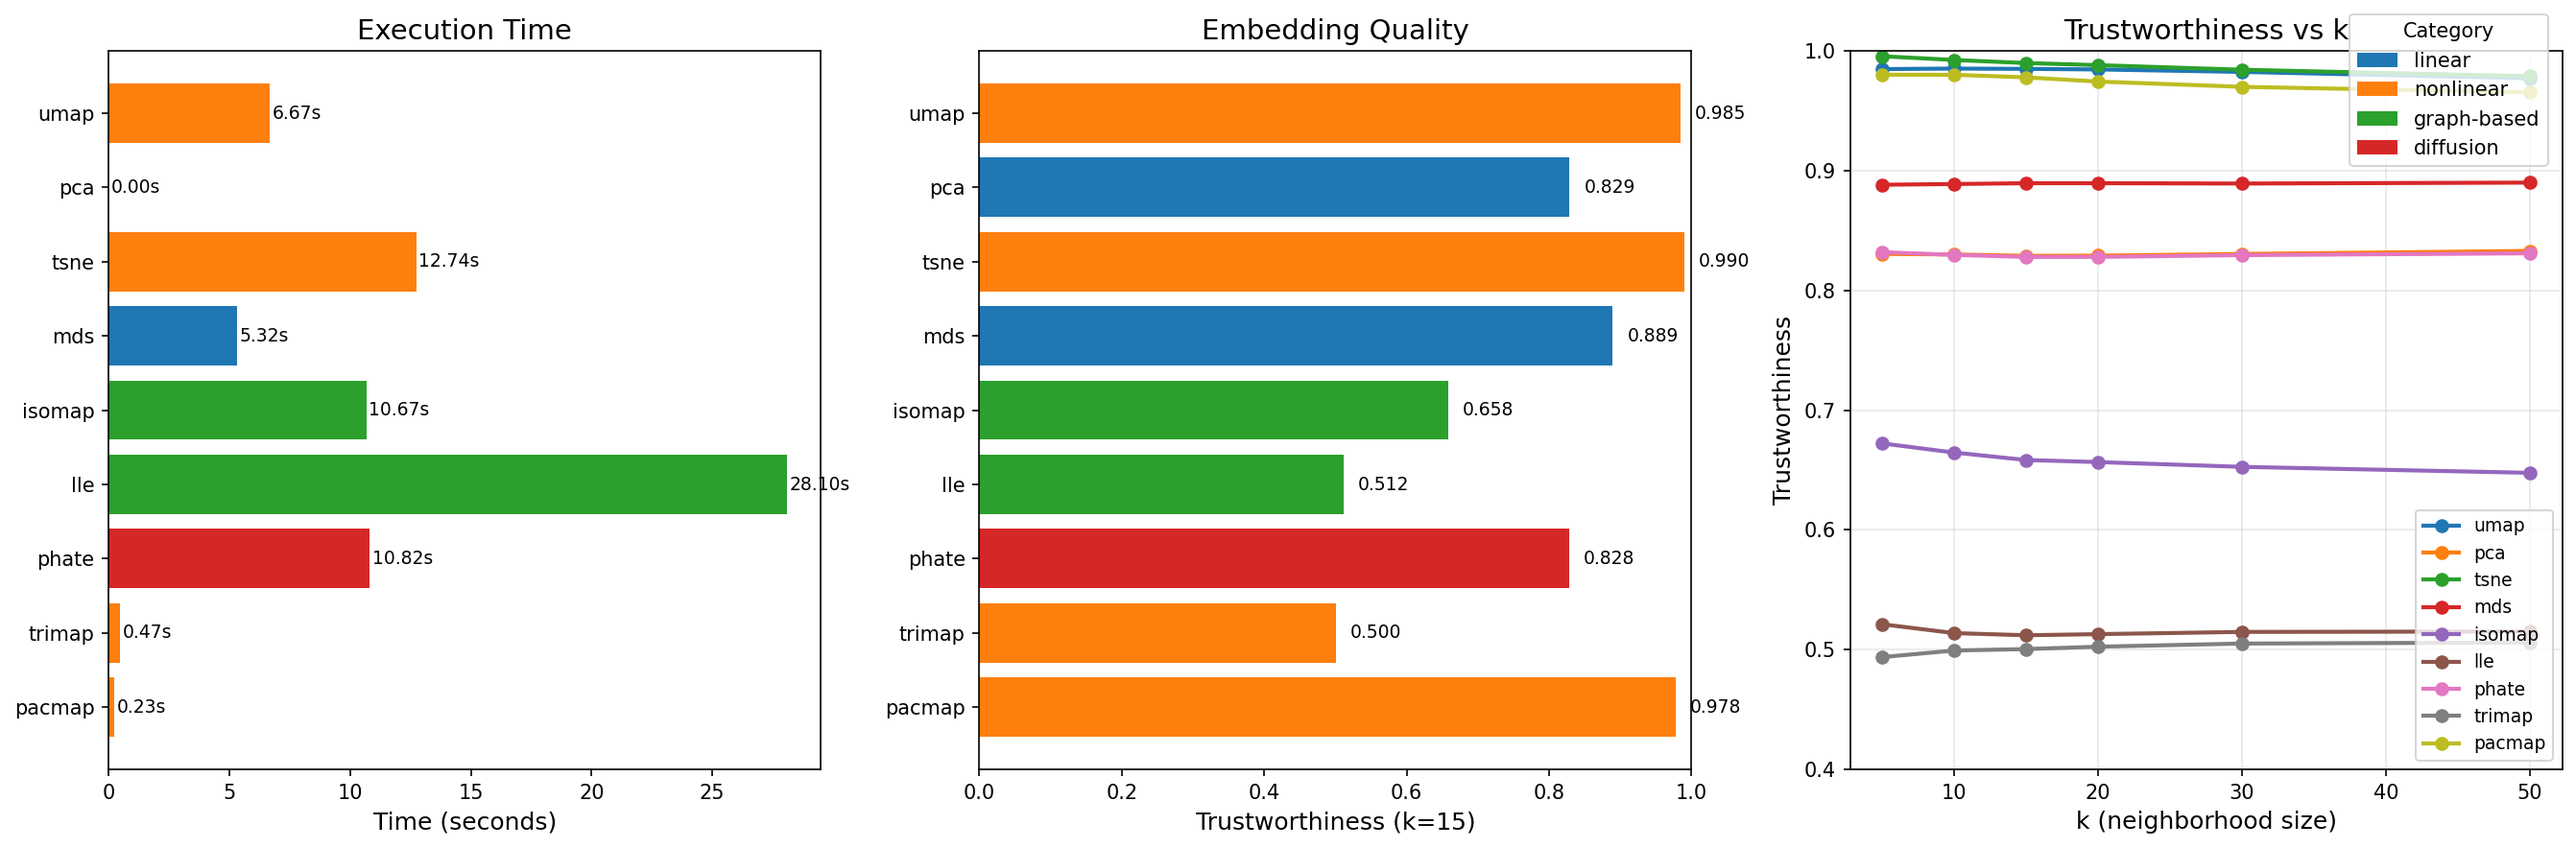
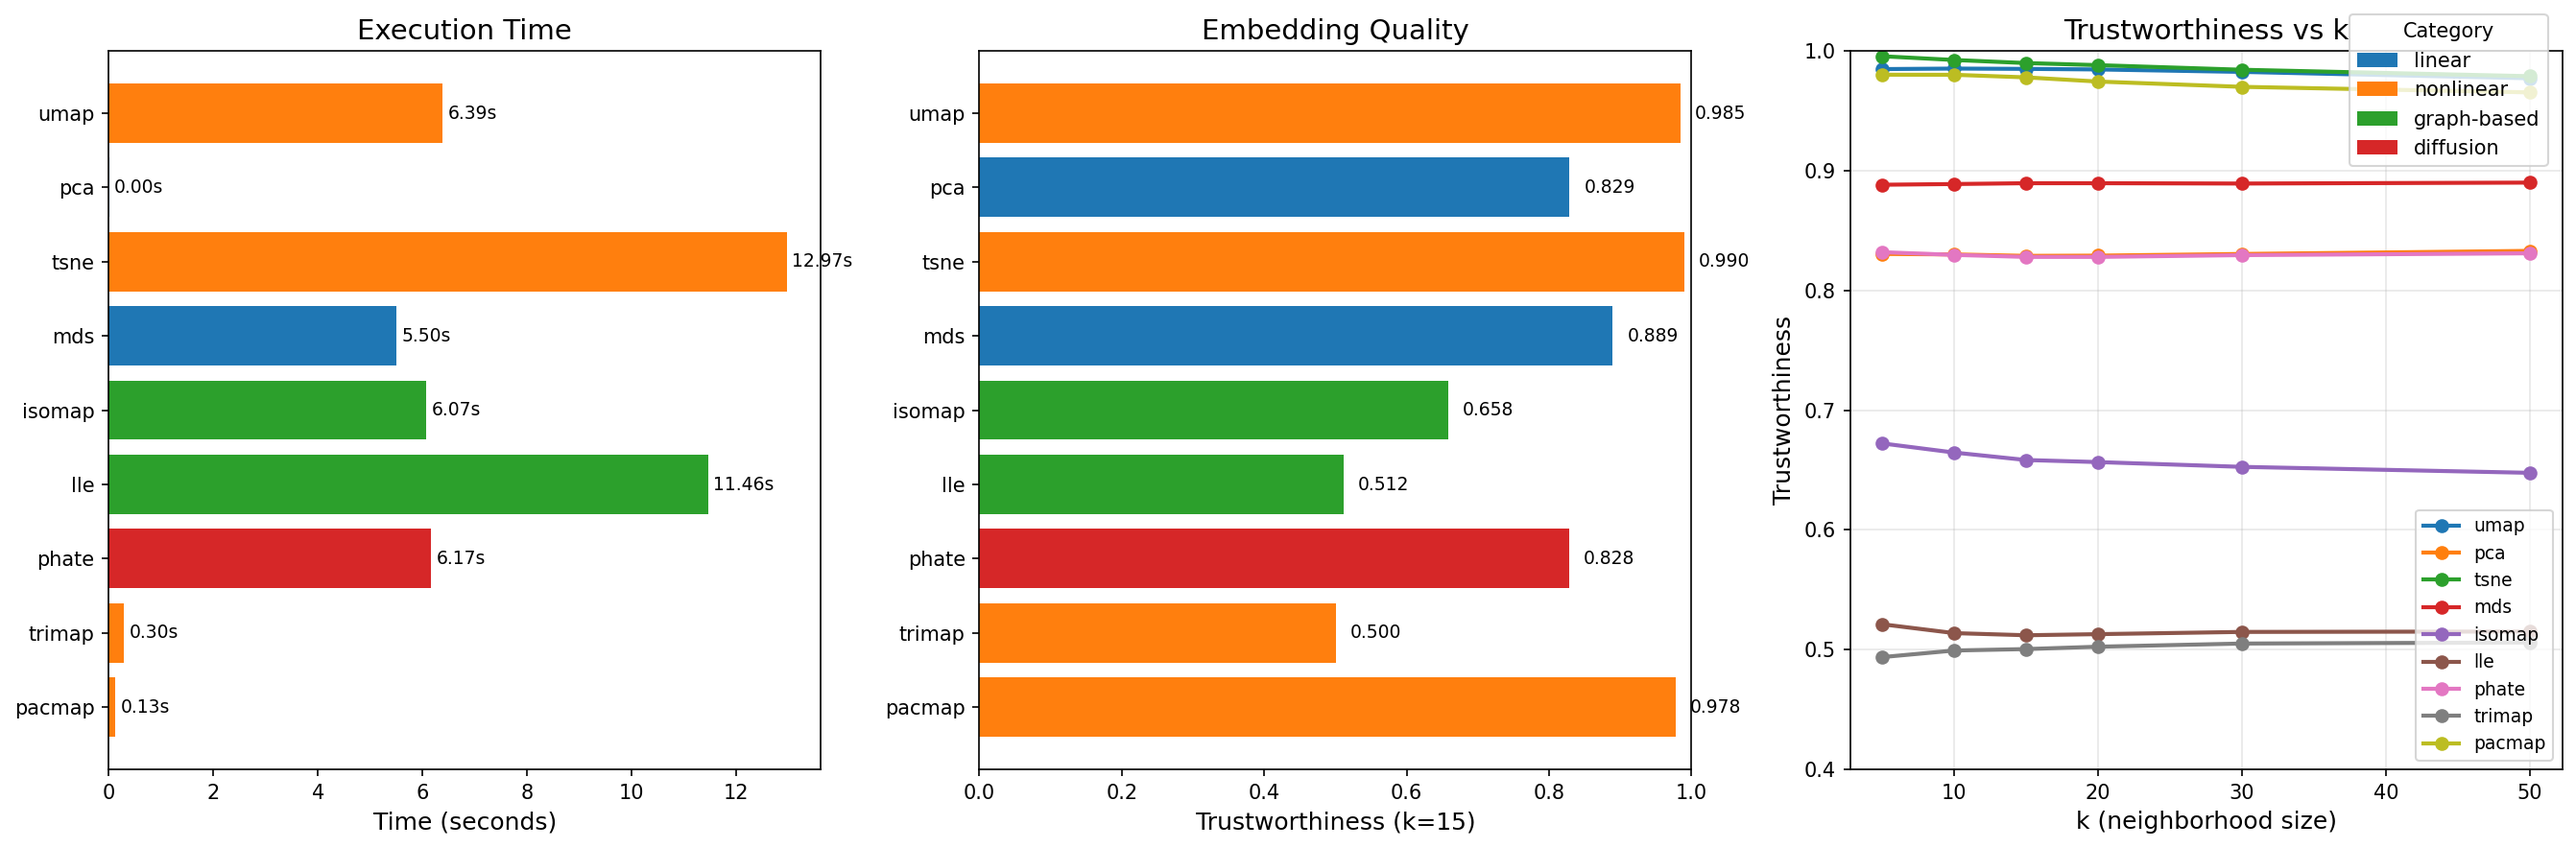
docs: Update benchmark results with latest numbers
- t-SNE: 0.990 trustworthiness (12.97s)
- UMAP: 0.985 trustworthiness (6.39s)
- PaCMAP: 0.978 trustworthiness (0.13s)

🤖 Generated with [Claude Code](https://claude.com/claude-code)

diff --git a/README.md b/README.md
@@ -70,9 +70,9 @@ All algorithms benchmarked on the sklearn Digits dataset (1,797 samples, 64 feat
 ![Embeddings Comparison](embeddings_comparison.png)
 
 **Key findings:**
-- **Best quality**: t-SNE (0.99 trustworthiness) and UMAP (0.98)
-- **Best speed/quality tradeoff**: PaCMAP (0.23s, 0.98 trustworthiness)
-- **Fastest**: PCA (0.01s)
+- **Best quality**: t-SNE (0.990 trustworthiness) and UMAP (0.985)
+- **Best speed/quality tradeoff**: PaCMAP (0.13s, 0.978 trustworthiness)
+- **Fastest**: PCA (<0.01s)
 
 Run the benchmark yourself:
 
